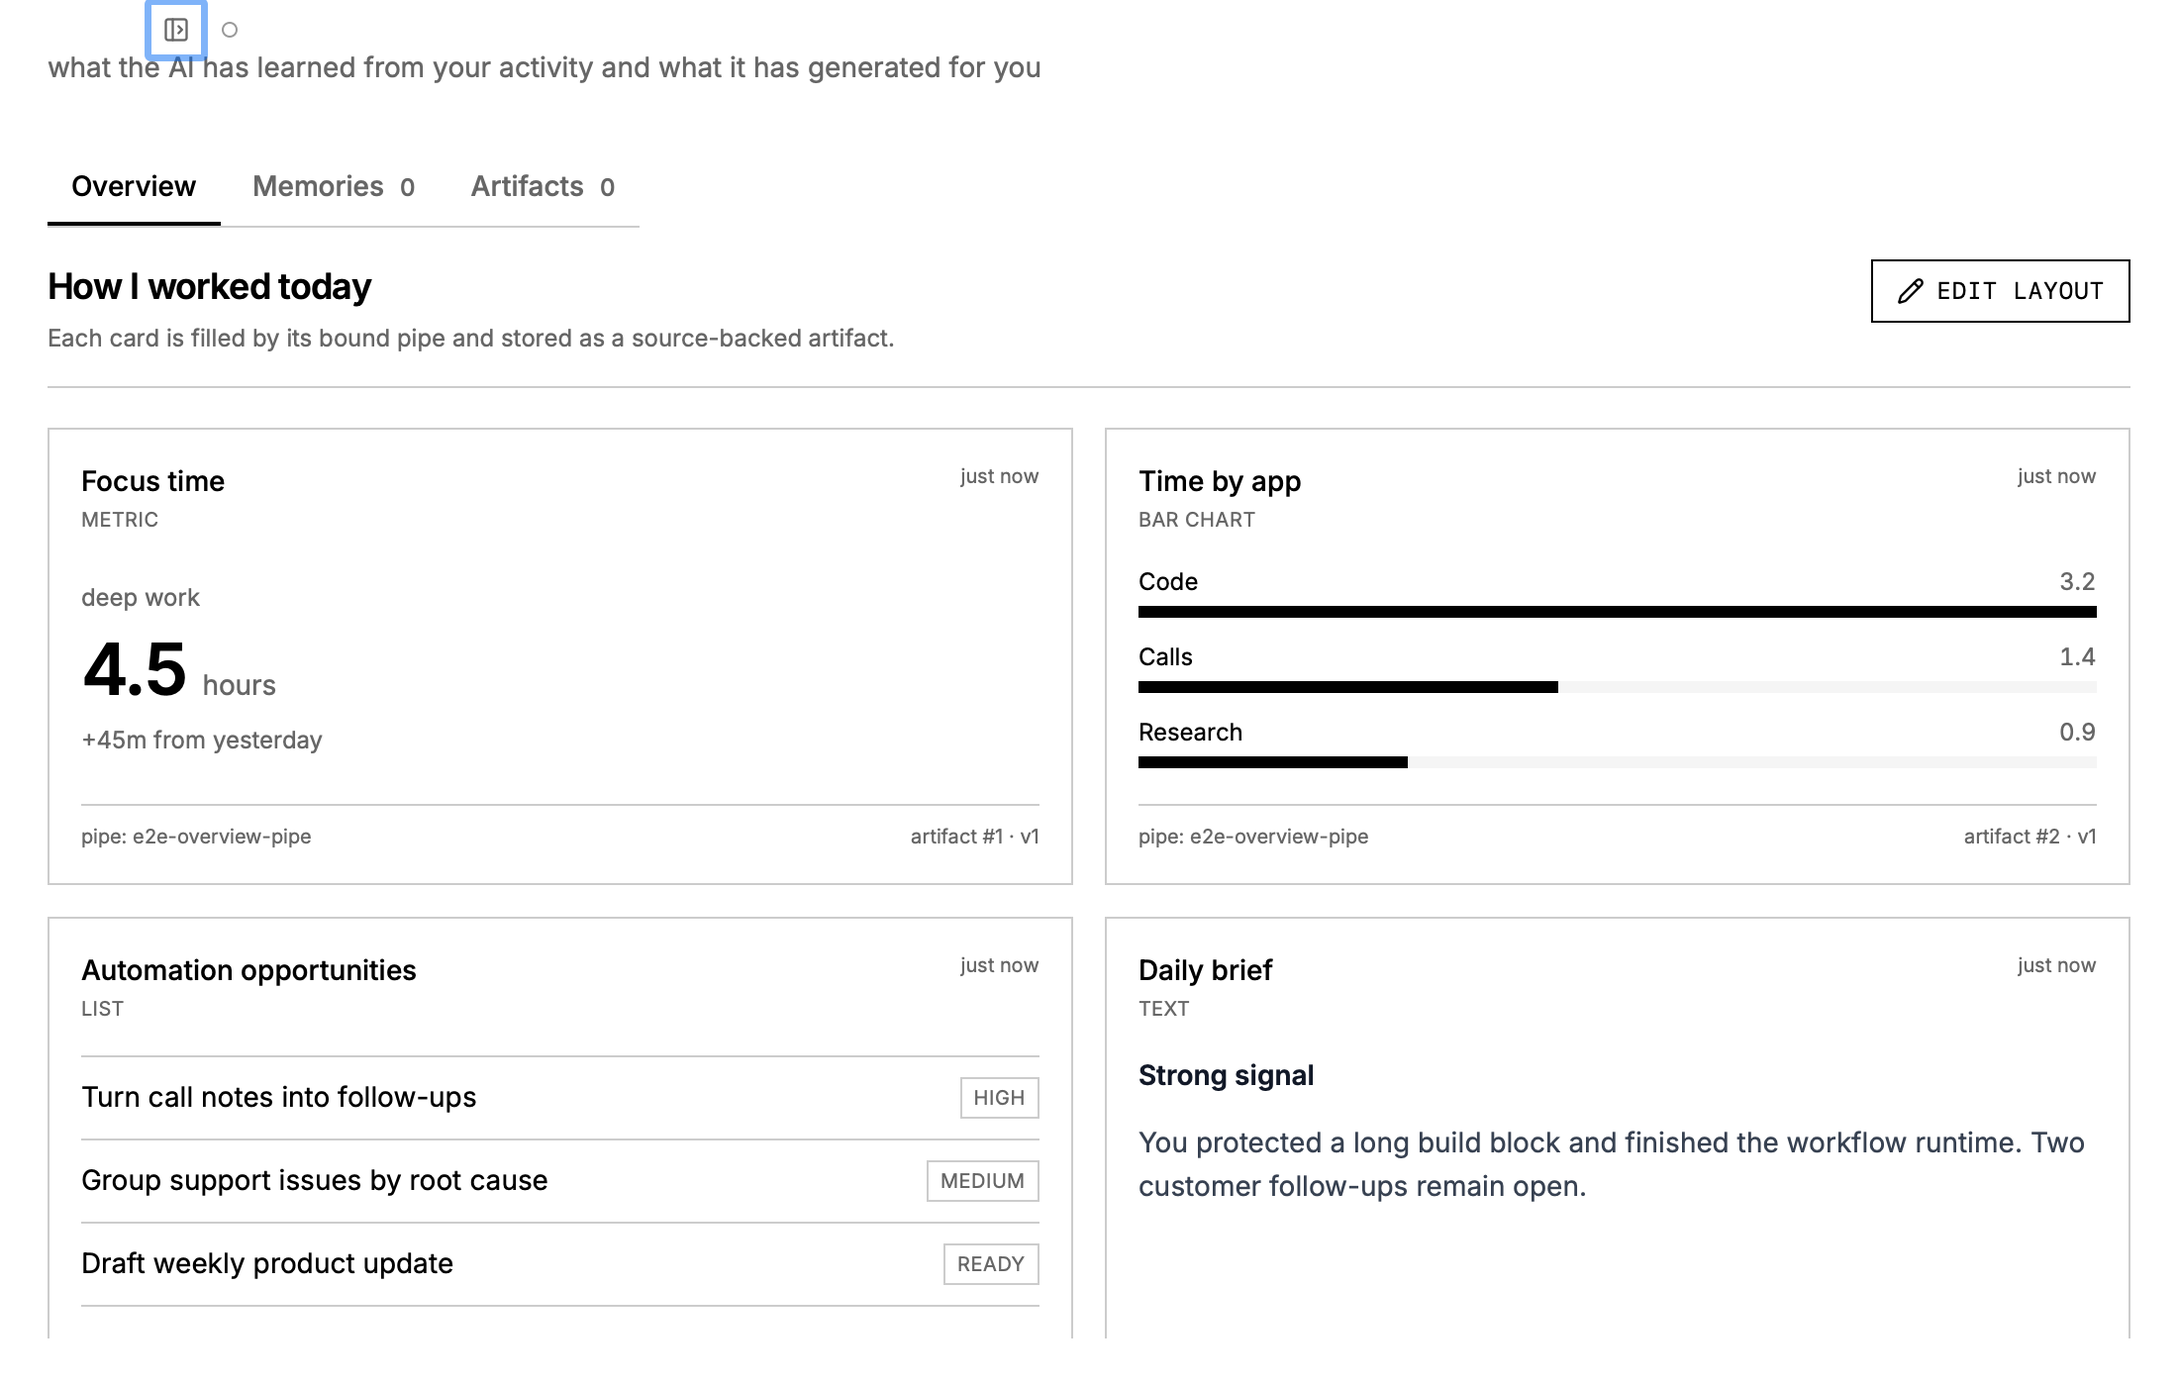
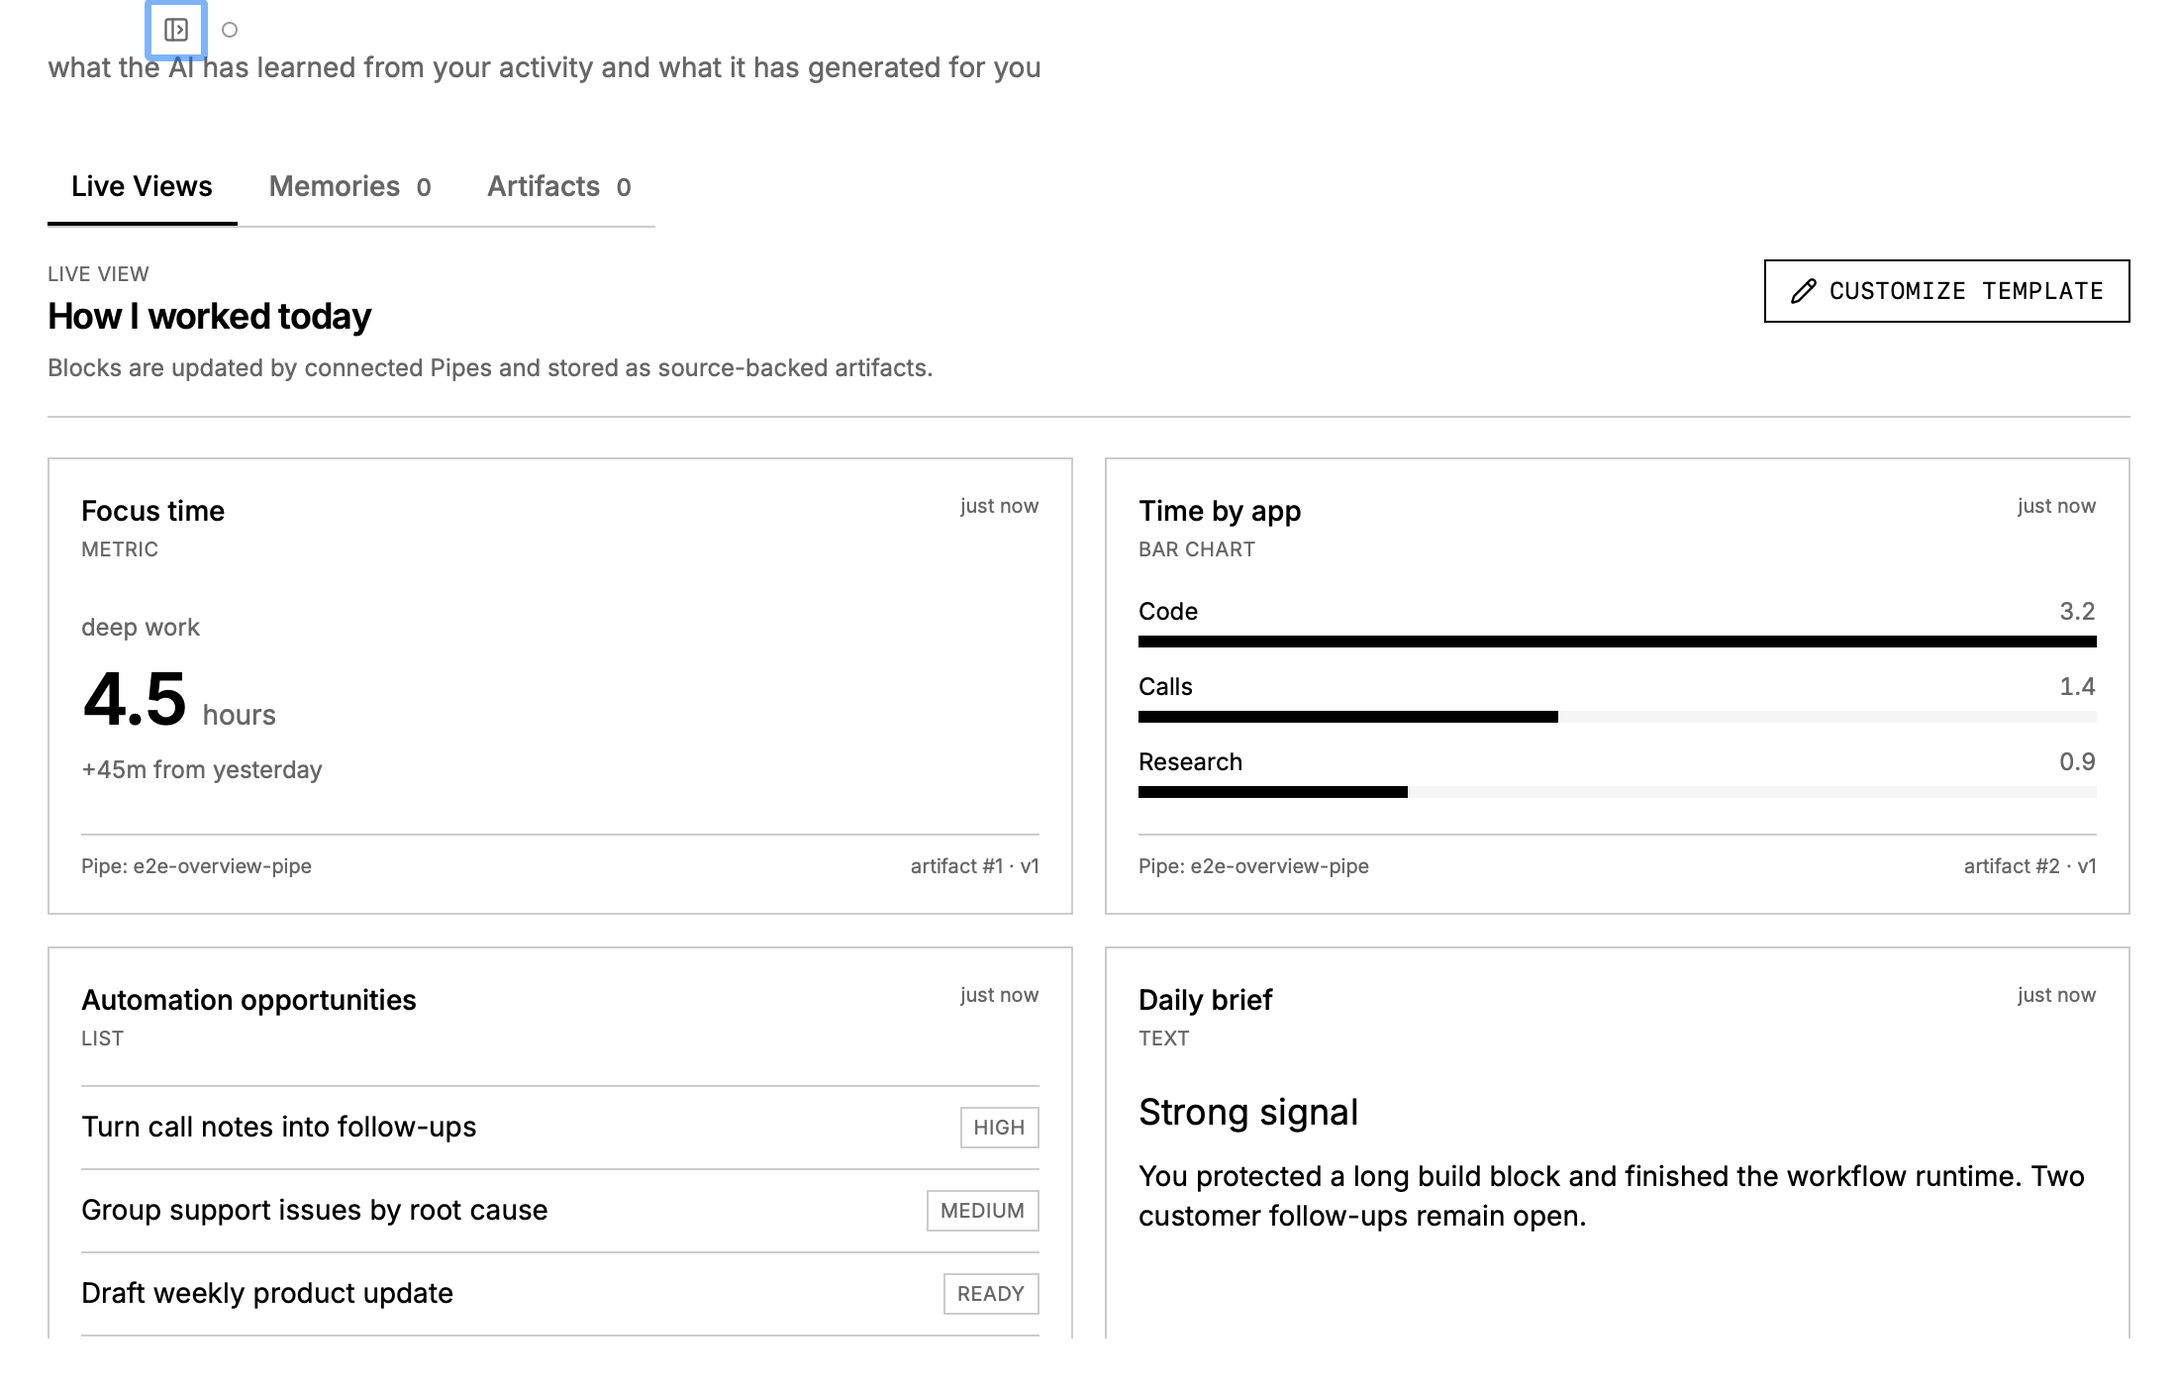
brand Brain overview as Live Views

diff --git a/apps/screenpipe-app-tauri/components/settings/brain-overview.tsx b/apps/screenpipe-app-tauri/components/settings/brain-overview.tsx
@@ -85,7 +85,7 @@ function ViewSlotBody({ slot }: { slot: ViewSlot }) {
       <div className="flex min-h-24 items-center justify-center border border-dashed border-border px-4 text-center text-xs text-muted-foreground">
         {slot.binding
           ? `waiting for ${slot.binding.pipeName} to publish data`
-          : "bind a pipe to fill this card"}
+          : "connect a Pipe to fill this Block"}
       </div>
     );
   }
@@ -259,7 +259,9 @@ function OverviewCard({ slot }: { slot: ViewSlot }) {
       </div>
       <div className="mt-4 flex items-center justify-between gap-3 border-t border-border pt-2 text-[10px] text-muted-foreground">
         <span className="truncate">
-          {slot.binding ? `pipe: ${slot.binding.pipeName}` : "no pipe bound"}
+          {slot.binding
+            ? `Pipe: ${slot.binding.pipeName}`
+            : "No Pipe connected"}
         </span>
         {slot.value && (
           <span className="shrink-0">
@@ -305,7 +307,7 @@ export function BrainOverview() {
         setError(
           loadError instanceof Error
             ? loadError.message
-            : "failed to load overview",
+            : "failed to load Live Views",
         );
       }
     } finally {
@@ -323,7 +325,7 @@ export function BrainOverview() {
     const now = new Date().toISOString();
     setDraft({
       id: "my-overview",
-      title: "My overview",
+      title: "My Live View",
       revision: 0,
       slots: [],
       createdAt: now,
@@ -365,10 +367,10 @@ export function BrainOverview() {
       setView(result.data);
       setDraft(null);
       setEditing(false);
-      toast({ title: "overview saved" });
+      toast({ title: "Live View saved" });
     } catch (saveError) {
       toast({
-        title: "failed to save overview",
+        title: "failed to save Live View",
         description:
           saveError instanceof Error ? saveError.message : String(saveError),
         variant: "destructive",
@@ -401,7 +403,7 @@ export function BrainOverview() {
           ...current.slots,
           {
             id,
-            title: "New card",
+            title: "New Block",
             component: "metric.v1",
             width: 6,
             order: current.slots.length,
@@ -428,7 +430,7 @@ export function BrainOverview() {
   if (loading) {
     return (
       <div className="flex min-h-64 items-center justify-center text-sm text-muted-foreground">
-        <Loader2 className="mr-2 h-4 w-4 animate-spin" /> loading overview
+        <Loader2 className="mr-2 h-4 w-4 animate-spin" /> loading Live Views
       </div>
     );
   }
@@ -438,7 +440,7 @@ export function BrainOverview() {
       <div className="flex min-h-64 flex-col items-center justify-center gap-3 border border-border text-center">
         <AlertCircle className="h-5 w-5 text-muted-foreground" />
         <div>
-          <p className="text-sm">failed to load overview</p>
+          <p className="text-sm">failed to load Live Views</p>
           <p className="mt-1 text-xs text-muted-foreground">{error}</p>
         </div>
         <Button
@@ -459,10 +461,10 @@ export function BrainOverview() {
         data-testid="brain-overview-empty"
         className="flex min-h-72 flex-col items-center justify-center border border-dashed border-border px-6 text-center"
       >
-        <p className="text-sm font-medium">Build your overview</p>
+        <p className="text-sm font-medium">Create your first Live View</p>
         <p className="mt-2 max-w-md text-xs leading-5 text-muted-foreground">
-          Define the cards you want to see, bind each one to a pipe, and let
-          that pipe publish validated data here.
+          Start with a blank template. Add the Blocks you want, connect each
+          Block to a Pipe, and Pipes keep your Live View updated.
         </p>
         <Button
           data-testid="overview-create"
@@ -470,7 +472,7 @@ export function BrainOverview() {
           className="mt-5 rounded-none"
           onClick={beginCreate}
         >
-          <Plus className="mr-1.5 h-3.5 w-3.5" /> create overview
+          <Plus className="mr-1.5 h-3.5 w-3.5" /> create Live View
         </Button>
       </div>
     );
@@ -485,7 +487,7 @@ export function BrainOverview() {
         <div className="flex items-end justify-between gap-4 border-b border-border pb-4">
           <label className="min-w-0 flex-1 space-y-1.5">
             <span className="text-[10px] uppercase tracking-wide text-muted-foreground">
-              Overview title
+              Live View name
             </span>
             <Input
               data-testid="overview-title"
@@ -520,7 +522,7 @@ export function BrainOverview() {
               {saving && (
                 <Loader2 className="mr-1.5 h-3.5 w-3.5 animate-spin" />
               )}
-              save overview
+              save template
             </Button>
           </div>
         </div>
@@ -535,7 +537,7 @@ export function BrainOverview() {
               <div className="grid gap-3 lg:grid-cols-[minmax(12rem,1.5fr)_minmax(10rem,1fr)_minmax(10rem,1fr)_7rem_auto]">
                 <label className="space-y-1">
                   <span className="text-[10px] uppercase tracking-wide text-muted-foreground">
-                    Card title
+                    Block title
                   </span>
                   <Input
                     value={slot.title}
@@ -551,7 +553,7 @@ export function BrainOverview() {
                 </label>
                 <label className="space-y-1">
                   <span className="text-[10px] uppercase tracking-wide text-muted-foreground">
-                    Component
+                    Block type
                   </span>
                   <select
                     value={slot.component}
@@ -573,7 +575,7 @@ export function BrainOverview() {
                 </label>
                 <label className="space-y-1">
                   <span className="text-[10px] uppercase tracking-wide text-muted-foreground">
-                    Pipe
+                    Connected Pipe
                   </span>
                   <select
                     data-testid={`overview-pipe-${slot.id}`}
@@ -589,7 +591,7 @@ export function BrainOverview() {
                       }))
                     }
                   >
-                    <option value="">No pipe</option>
+                    <option value="">No Pipe</option>
                     {installedPipes.map((pipe) => (
                       <option key={pipe.config.name} value={pipe.config.name}>
                         {pipe.config.name}
@@ -618,7 +620,7 @@ export function BrainOverview() {
                 </label>
                 <div className="flex items-end justify-end gap-1">
                   <Button
-                    aria-label="move card up"
+                    aria-label="move Block up"
                     variant="ghost"
                     size="icon"
                     className="h-8 w-8 rounded-none"
@@ -628,7 +630,7 @@ export function BrainOverview() {
                     <ArrowUp className="h-3.5 w-3.5" />
                   </Button>
                   <Button
-                    aria-label="move card down"
+                    aria-label="move Block down"
                     variant="ghost"
                     size="icon"
                     className="h-8 w-8 rounded-none"
@@ -638,7 +640,7 @@ export function BrainOverview() {
                     <ArrowDown className="h-3.5 w-3.5" />
                   </Button>
                   <Button
-                    aria-label="delete card"
+                    aria-label="delete Block"
                     variant="ghost"
                     size="icon"
                     className="h-8 w-8 rounded-none text-muted-foreground hover:text-destructive"
@@ -661,7 +663,7 @@ export function BrainOverview() {
                     (component) => component.value === slot.component,
                   )?.schema
                 }
-                . The pipe receives this target on its next run.
+                . The connected Pipe receives this Block on its next run.
               </p>
             </div>
           ))}
@@ -674,7 +676,7 @@ export function BrainOverview() {
           className="rounded-none"
           onClick={addSlot}
         >
-          <Plus className="mr-1.5 h-3.5 w-3.5" /> add card
+          <Plus className="mr-1.5 h-3.5 w-3.5" /> add Block
         </Button>
       </div>
     );
@@ -686,10 +688,13 @@ export function BrainOverview() {
     <div className="min-h-0 flex-1 overflow-y-auto pb-8">
       <div className="mb-5 flex items-start justify-between gap-4 border-b border-border pb-4">
         <div>
+          <p className="text-[10px] uppercase tracking-wide text-muted-foreground">
+            Live View
+          </p>
           <h2 className="text-lg font-semibold tracking-tight">{view.title}</h2>
           <p className="mt-1 text-xs text-muted-foreground">
-            Each card is filled by its bound pipe and stored as a source-backed
-            artifact.
+            Blocks are updated by connected Pipes and stored as source-backed
+            artifacts.
           </p>
         </div>
         <Button
@@ -699,7 +704,7 @@ export function BrainOverview() {
           className="rounded-none"
           onClick={beginEdit}
         >
-          <Pencil className="mr-1.5 h-3.5 w-3.5" /> edit layout
+          <Pencil className="mr-1.5 h-3.5 w-3.5" /> customize template
         </Button>
       </div>
       {slots.length === 0 ? (
@@ -708,7 +713,7 @@ export function BrainOverview() {
           className="flex min-h-48 w-full items-center justify-center border border-dashed border-border text-xs text-muted-foreground hover:text-foreground"
           onClick={beginEdit}
         >
-          add your first card
+          add your first Block
         </button>
       ) : (
         <div

diff --git a/apps/screenpipe-app-tauri/components/settings/__tests__/brain-overview.test.tsx b/apps/screenpipe-app-tauri/components/settings/__tests__/brain-overview.test.tsx
@@ -85,10 +85,11 @@ describe("BrainOverview", () => {
     });
     render(<BrainOverview />);
 
+    expect(await screen.findByText("Live View")).toBeTruthy();
     expect(await screen.findByText("How I worked today")).toBeTruthy();
     expect(screen.getByText("4.5")).toBeTruthy();
     expect(screen.getByText("hours")).toBeTruthy();
-    expect(screen.getByText("pipe: daily-summary")).toBeTruthy();
+    expect(screen.getByText("Pipe: daily-summary")).toBeTruthy();
     expect(screen.getByText("artifact #88 · v2")).toBeTruthy();
   });
 
@@ -120,7 +121,7 @@ describe("BrainOverview", () => {
     expect(screen.queryByRole("img")).toBeNull();
   });
 
-  it("creates a card and persists its component, width, and pipe binding", async () => {
+  it("creates a Live View template and persists its Block type, width, and Pipe binding", async () => {
     mocks.listBrainViews.mockResolvedValue({ status: "ok", data: [] });
     mocks.saveBrainView.mockImplementation(async (request) => ({
       status: "ok",
@@ -137,8 +138,14 @@ describe("BrainOverview", () => {
     }));
     render(<BrainOverview />);
 
+    expect(await screen.findByText("Create your first Live View")).toBeTruthy();
+    expect(screen.getByText(/Start with a blank template/)).toBeTruthy();
     fireEvent.click(await screen.findByTestId("overview-create"));
     fireEvent.click(screen.getByTestId("overview-add-card"));
+    expect(screen.getByText("Live View name")).toBeTruthy();
+    expect(screen.getByText("Block title")).toBeTruthy();
+    expect(screen.getByText("Block type")).toBeTruthy();
+    expect(screen.getByText("Connected Pipe")).toBeTruthy();
     const editorCard = screen.getByTestId(/^overview-editor-card-/);
     const cardTitle = editorCard.querySelector("input");
     expect(cardTitle).toBeTruthy();

diff --git a/apps/screenpipe-app-tauri/e2e/specs/brain-overview.spec.ts b/apps/screenpipe-app-tauri/e2e/specs/brain-overview.spec.ts
@@ -22,10 +22,10 @@ interface OutputTarget {
   revision: number;
 }
 
-describe("Brain Overview", function () {
+describe("Brain Live Views", function () {
   this.timeout(120_000);
 
-  it("renders a pipe-filled user-defined overview", async () => {
+  it("renders a Pipe-filled Live View template", async () => {
     await waitForAppReady();
     await openHomeWindow();
     const config = await invokeOrThrow<LocalApiConfig>("get_local_api_config");
@@ -172,15 +172,18 @@ describe("Brain Overview", function () {
     if (await collapseSidebar.isExisting()) {
       await collapseSidebar.click();
     }
-    await $("[data-testid='brain-overview-grid']").moveTo({
-      xOffset: 20,
-      yOffset: 20,
+    await $("[data-testid='overview-edit']").moveTo({
+      xOffset: 10,
+      yOffset: 10,
     });
     await browser.pause(1_000);
 
     const renderedText = (await browser.execute(
       () => document.body?.innerText || "",
     )) as string;
+    expect(renderedText).toContain("Live Views");
+    expect(renderedText).toContain("Live View");
+    expect(renderedText).toContain("CUSTOMIZE TEMPLATE");
     expect(renderedText).toContain("How I worked today");
     expect(renderedText).toContain("Automation opportunities");
     const screenshot = await saveScreenshot("brain-overview-pipe-filled");

diff --git a/apps/screenpipe-app-tauri/components/settings/brain-section.tsx b/apps/screenpipe-app-tauri/components/settings/brain-section.tsx
@@ -1210,7 +1210,7 @@ export function BrainSection() {
         <div className="inline-flex items-center gap-1 border-b border-border">
           {(
             [
-              { value: "overview", label: "Overview" },
+              { value: "overview", label: "Live Views" },
               { value: "memories", label: "Memories", count: total },
               { value: "artifacts", label: "Artifacts", count: artifactsTotal },
             ] as { value: TypeFilter; label: string; count?: number }[]

diff --git a/apps/screenpipe-app-tauri/e2e/COVERAGE.md b/apps/screenpipe-app-tauri/e2e/COVERAGE.md
@@ -100,7 +100,7 @@ pass/fail/skip counts.
 | app-lifecycle.spec.ts | windows, macos, linux | real-ui-e2e, window-lifecycle | app-launch, home-navigation, webview-stability, route-churn, browser-storage | high | strong | mixed | 14 | Home webview, routing, reload, focus, resize, and storage stability. |
 | artifacts-api.spec.ts | windows, macos, linux | local-api | local-api-auth, artifacts | medium | strong | api | 7 | CRUD coverage for artifact registration, validation, unified listing, upsert, and delete. |
 | audio-fallback.spec.ts | macos | audio-device, settings, notifications | audio-device-health, settings-recording, notifications | medium | conditional | real-user-flow | 1 | Opt-in macOS cloud audio fallback seed. |
-| brain-overview.spec.ts | windows, macos, linux | real-ui-e2e, local-api, pipes | brain, brain-overview, artifacts, pipes | high | strong | real-user-flow | 1 | Creates a typed Brain overview, submits all supported component payloads with evidence, renders them in the real app, and captures the PR screenshot. |
+| brain-overview.spec.ts | windows, macos, linux | real-ui-e2e, local-api, pipes | brain, brain-overview, artifacts, pipes | high | strong | real-user-flow | 1 | Creates a Live View template, submits all supported Block payloads with evidence, renders them in the real app, and captures the PR screenshot. |
 | brain-section.spec.ts | windows, macos, linux | real-ui-e2e | brain, artifacts, memories, viewer-deeplink | medium | strong | real-user-flow | 10 | Brain coverage for filters, search, delete flows, selection pruning, add memory, and inline artifact markdown preview. |
 | capture-frequency-floor.spec.ts | macos | capture-ocr, settings, real-ui-e2e | capture-ocr, settings-recording, restart-flow | high | conditional | real-user-flow | 1 | macOS fixed screenshot cadence regression: persists the 1s setting before immediate Apply & Restart, then verifies real capture attempts and frame writes. |
 | chat-ask-user-tool-card.spec.ts | windows, macos, linux | chat-ai, real-ui-e2e | chat, chat-tools, pi-ask-user | medium | partial | mixed | 1 | Synthetic assistant tool block renders the Pi ask_user dropdown and sends the selected answer through the normal chat reply path. |
